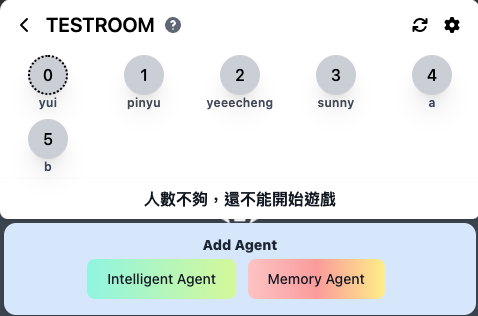
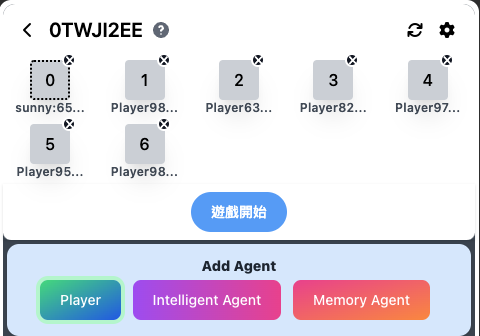
revise readme

diff --git a/README.md b/README.md
@@ -12,8 +12,15 @@
 ![alt text](https://github.com/Sunny1928/wolf/blob/main/img/prepare_1.png)
 
 1. 右上角，設定左邊的按鈕是 reset game
-2. Add Agent可以新增你想要加的Agent
+2. 玩家右上角的叉叉可以移除玩家
+3. Add Agent可以新增你想要加入的Player
+    player -> add normal player
+    intelligent agent -> add intelligent agent
+    memory agent -> add memory agent
 
 ![alt text](https://github.com/Sunny1928/wolf/blob/main/img/game_1.png)
 
 1. 上面的選項是選擇操作者，但我其實每次換stage都會幫你們填入操作的人(但沒有在選單上幫你們切換)，但有些情況會沒填到，如果沒送出成功，你們可以再切換一下角色
+
+![alt text](https://github.com/Sunny1928/wolf/blob/main/img/agentinfo.png)
+1. Agent Info 
